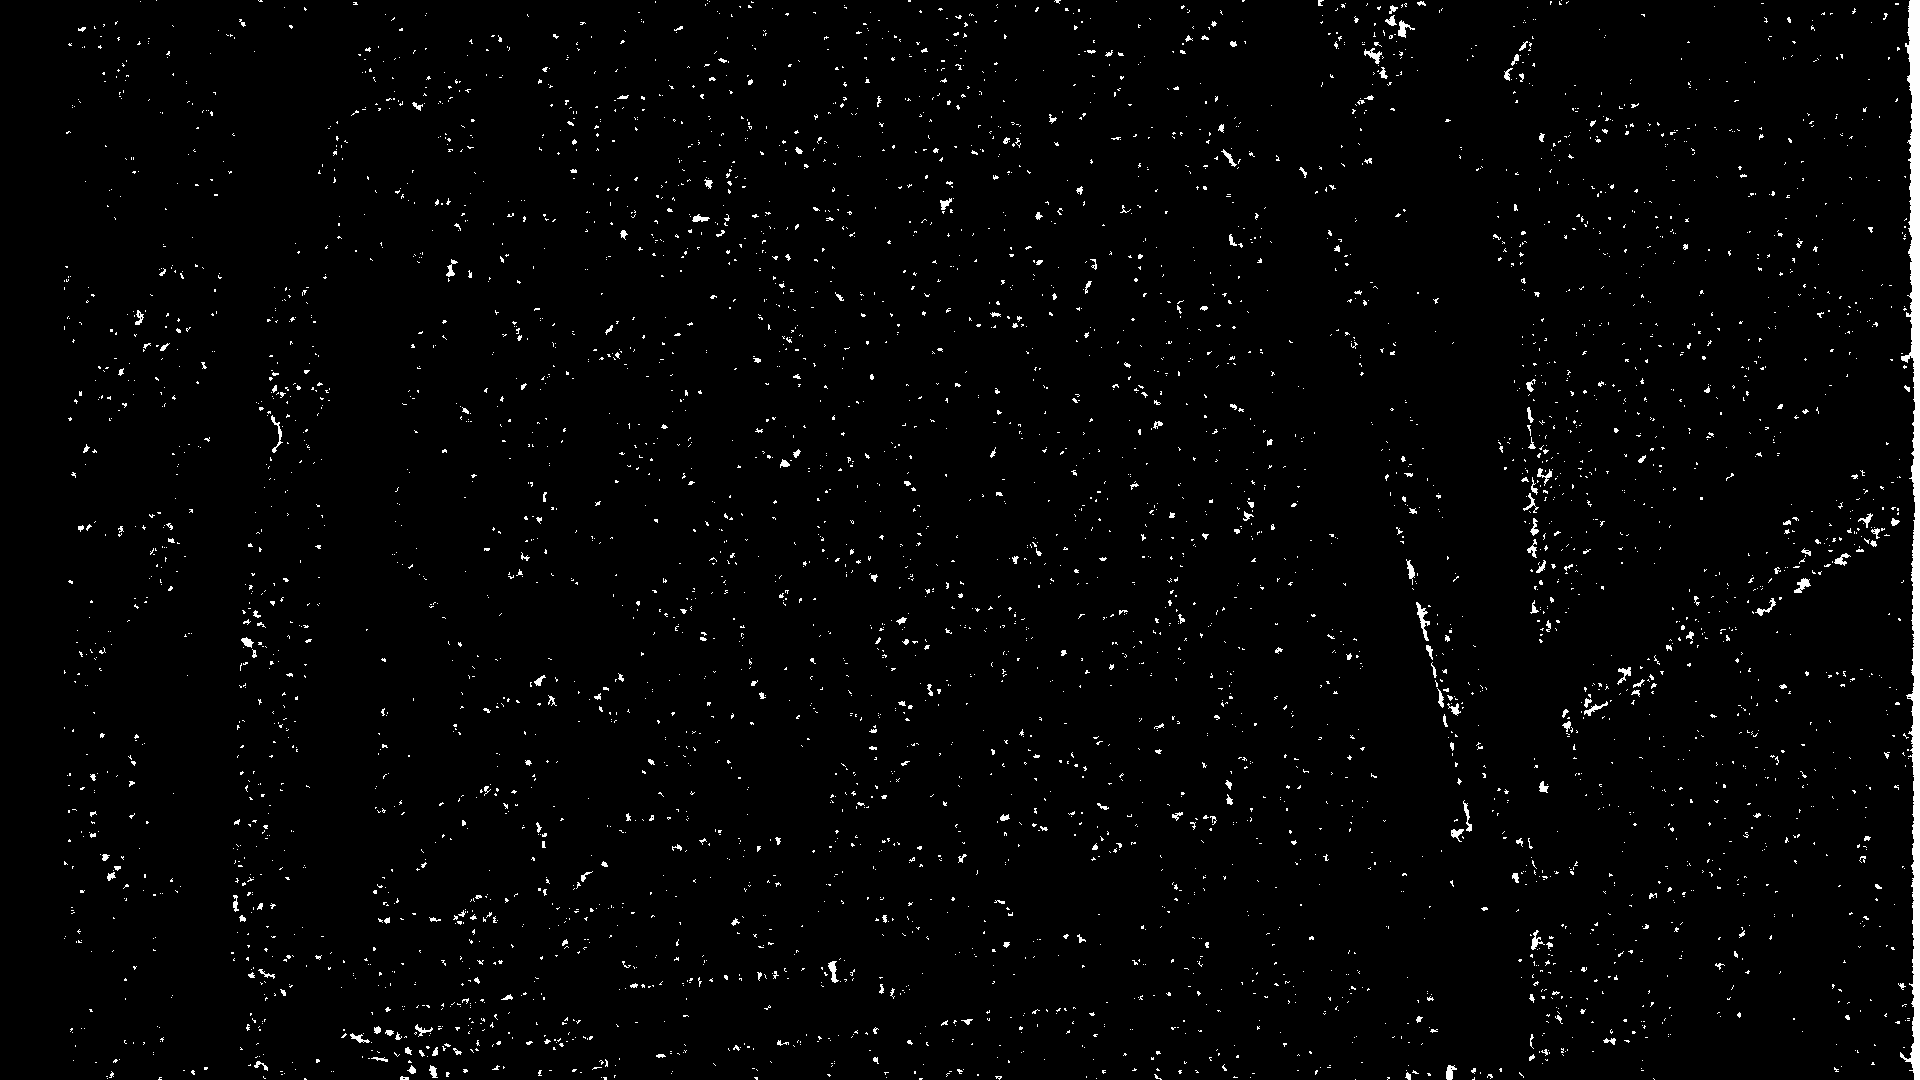
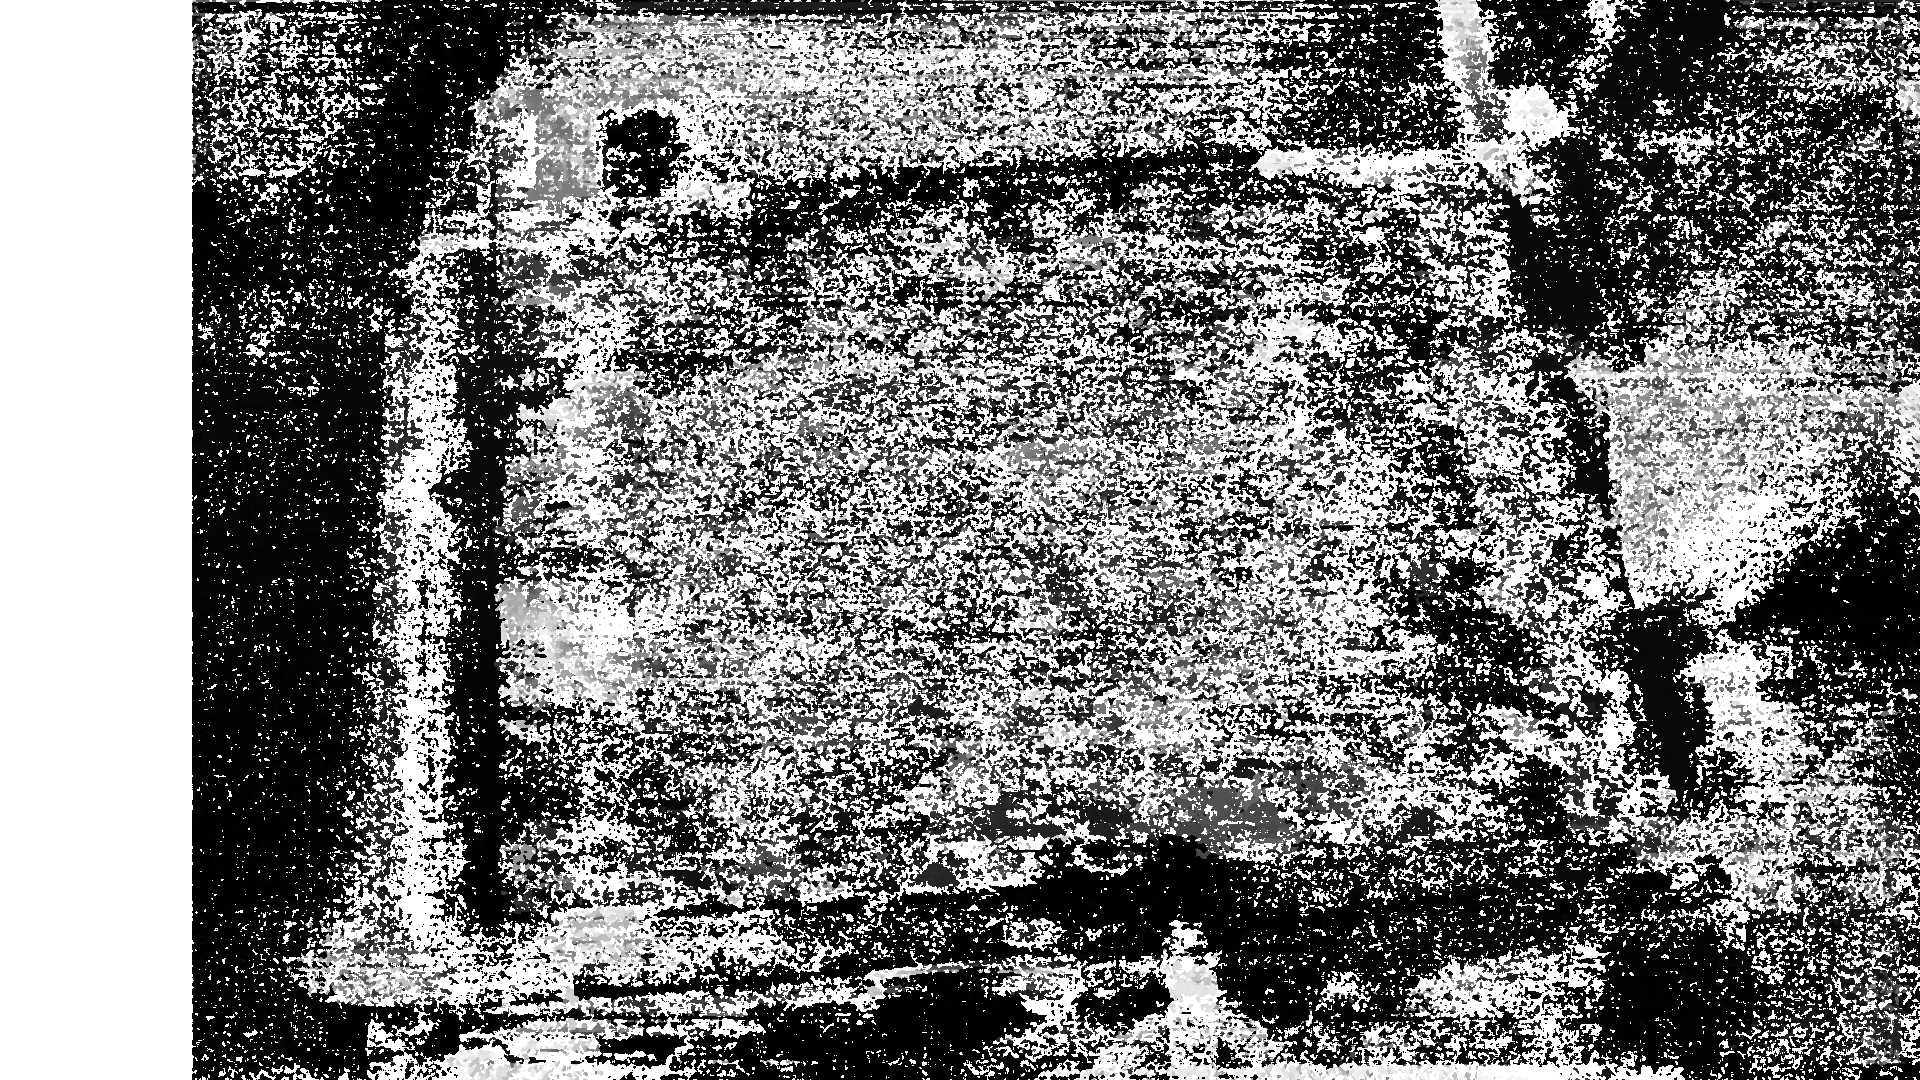
1

diff --git a/stereo/stereo_ca.py b/stereo/stereo_ca.py
@@ -109,7 +109,18 @@ cv2.imwrite('result/left_rectified.png', rectified_left)
 cv2.imwrite('result/right_rectified.png', rectified_right)
 
 # 计算视差图
-stereo = cv2.StereoSGBM_create(minDisparity=0, numDisparities=64, blockSize=5)
+stereo = cv2.StereoSGBM_create(
+    minDisparity=32,
+    numDisparities=192-32,
+    blockSize=3,
+    P1=500,  # 对于灰度图像和blockSize=5
+    P2=2000,
+    preFilterCap=31,
+    uniquenessRatio=5,
+    speckleWindowSize=0,
+    speckleRange=1,
+    disp12MaxDiff=20
+)
 disparity = stereo.compute(rectified_left, rectified_right)
 
 # 视差图归一化处理（可视化）
